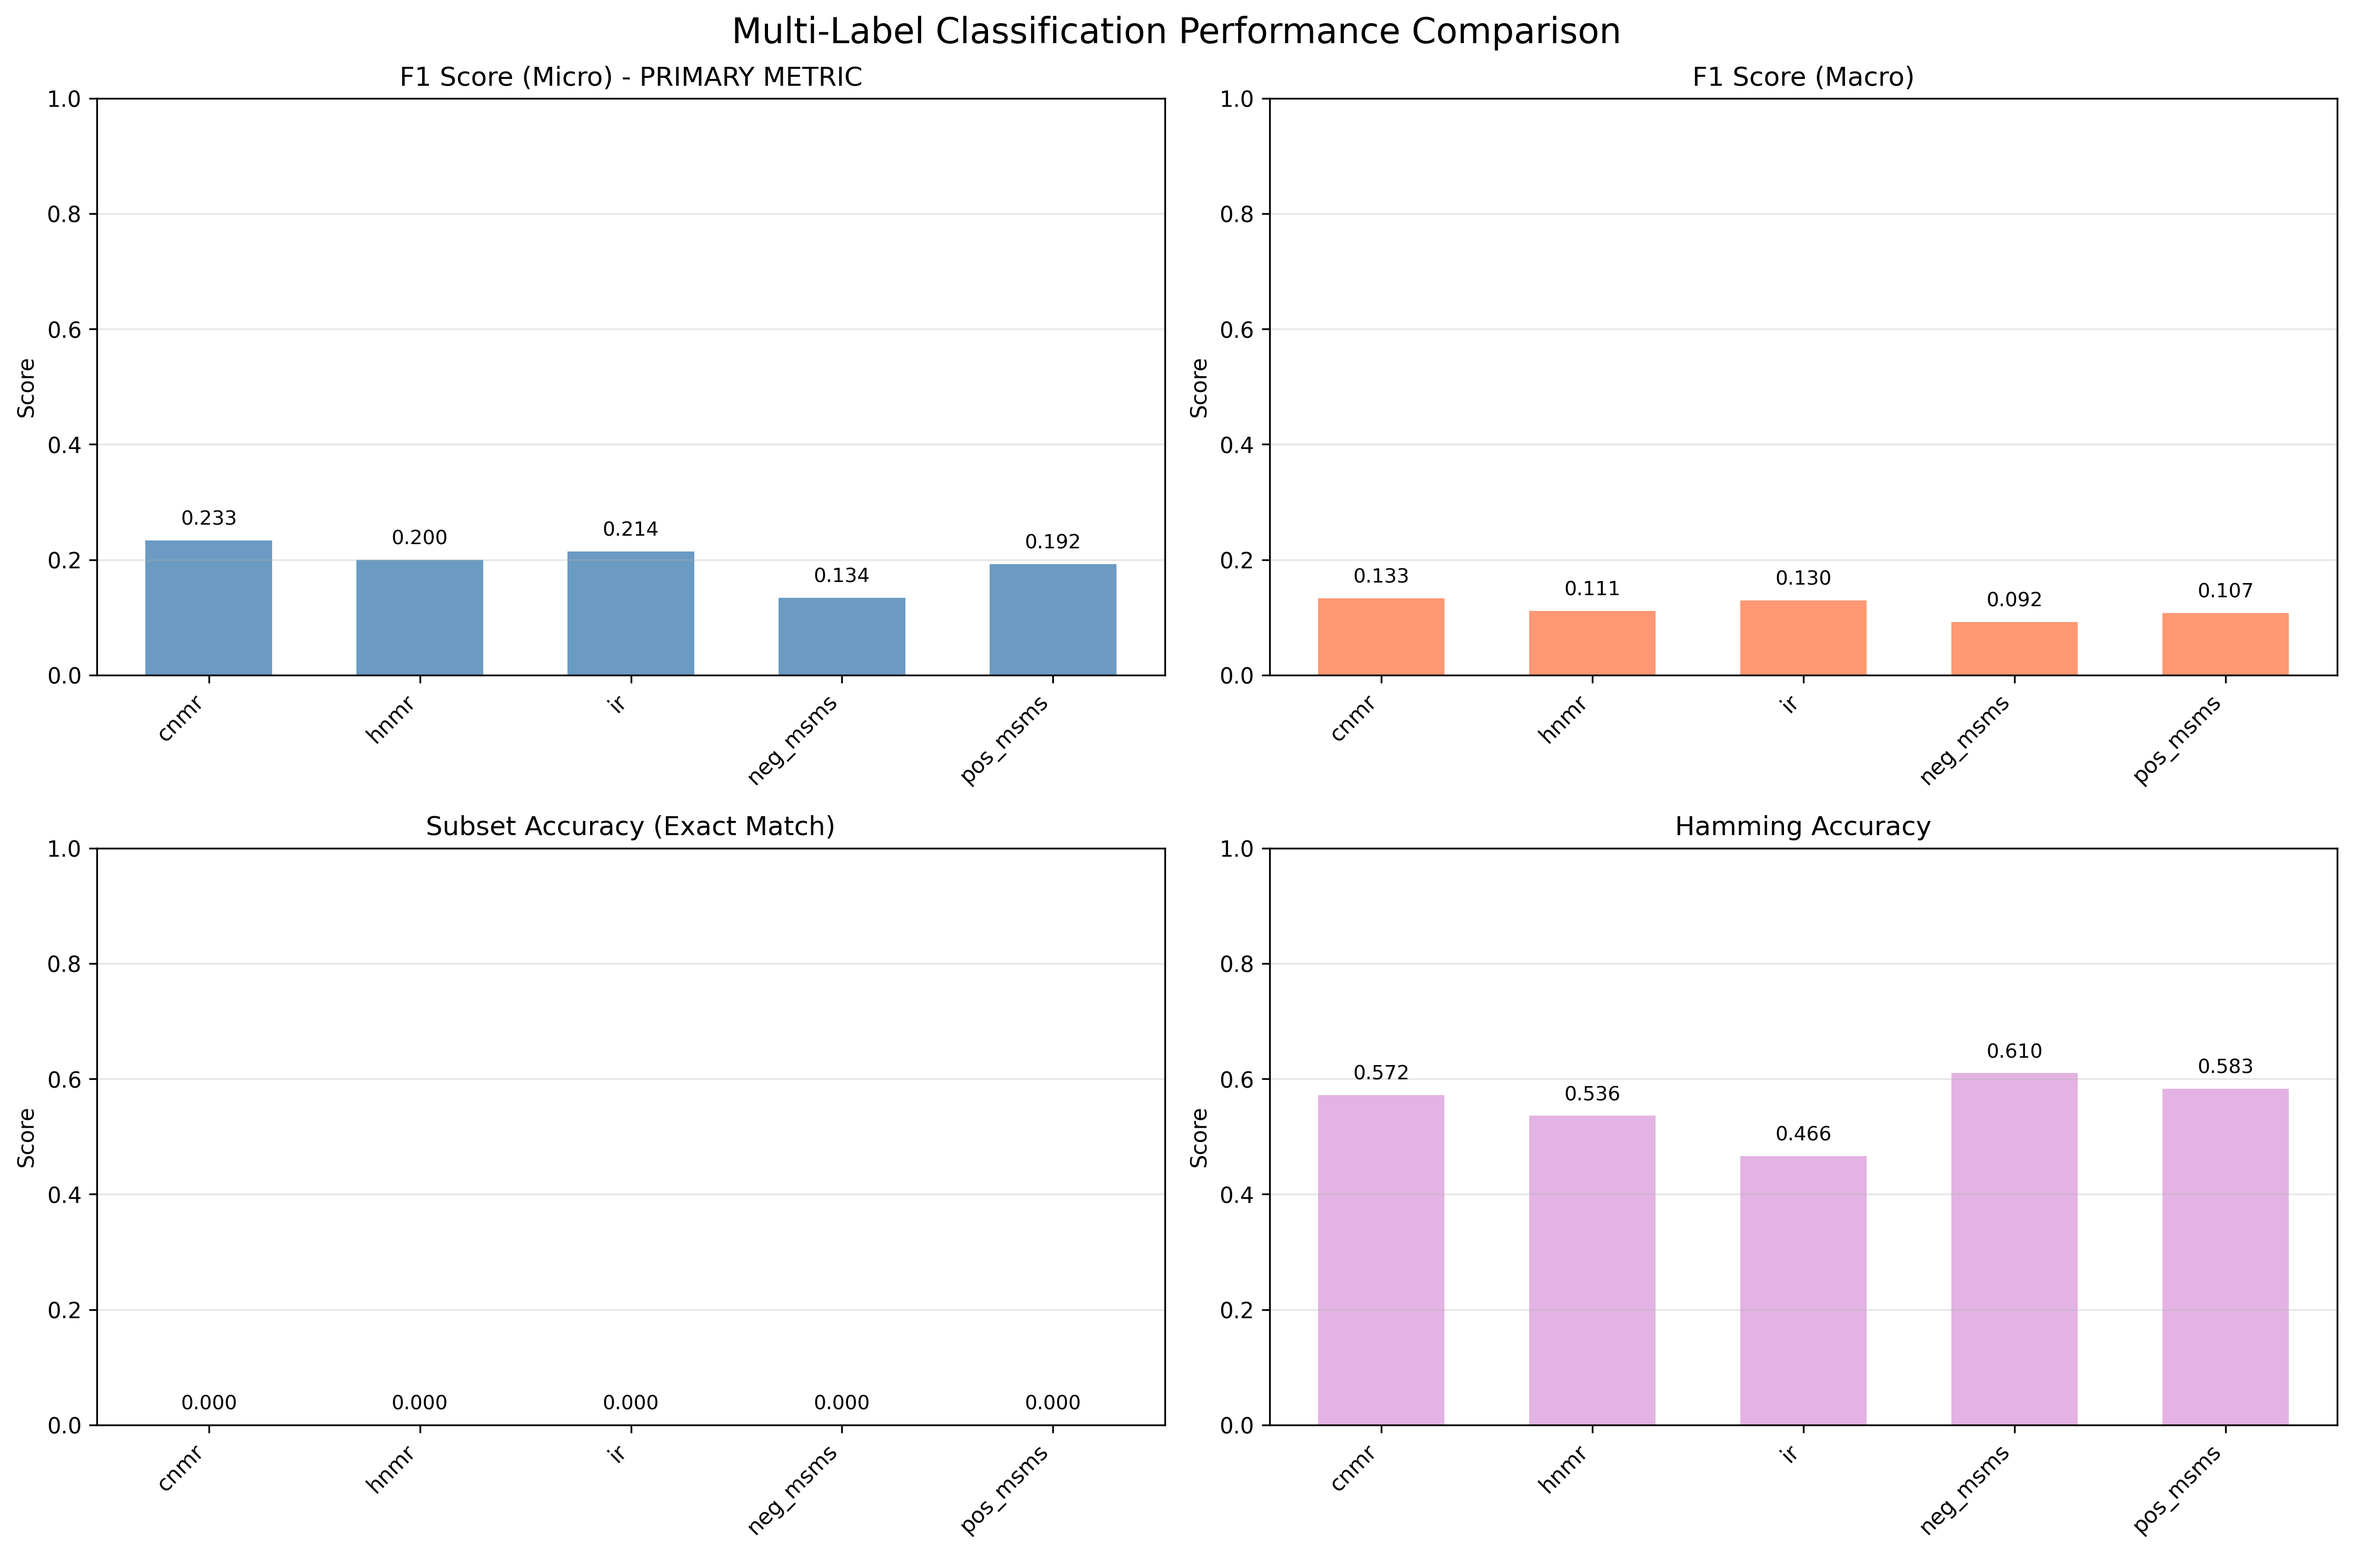
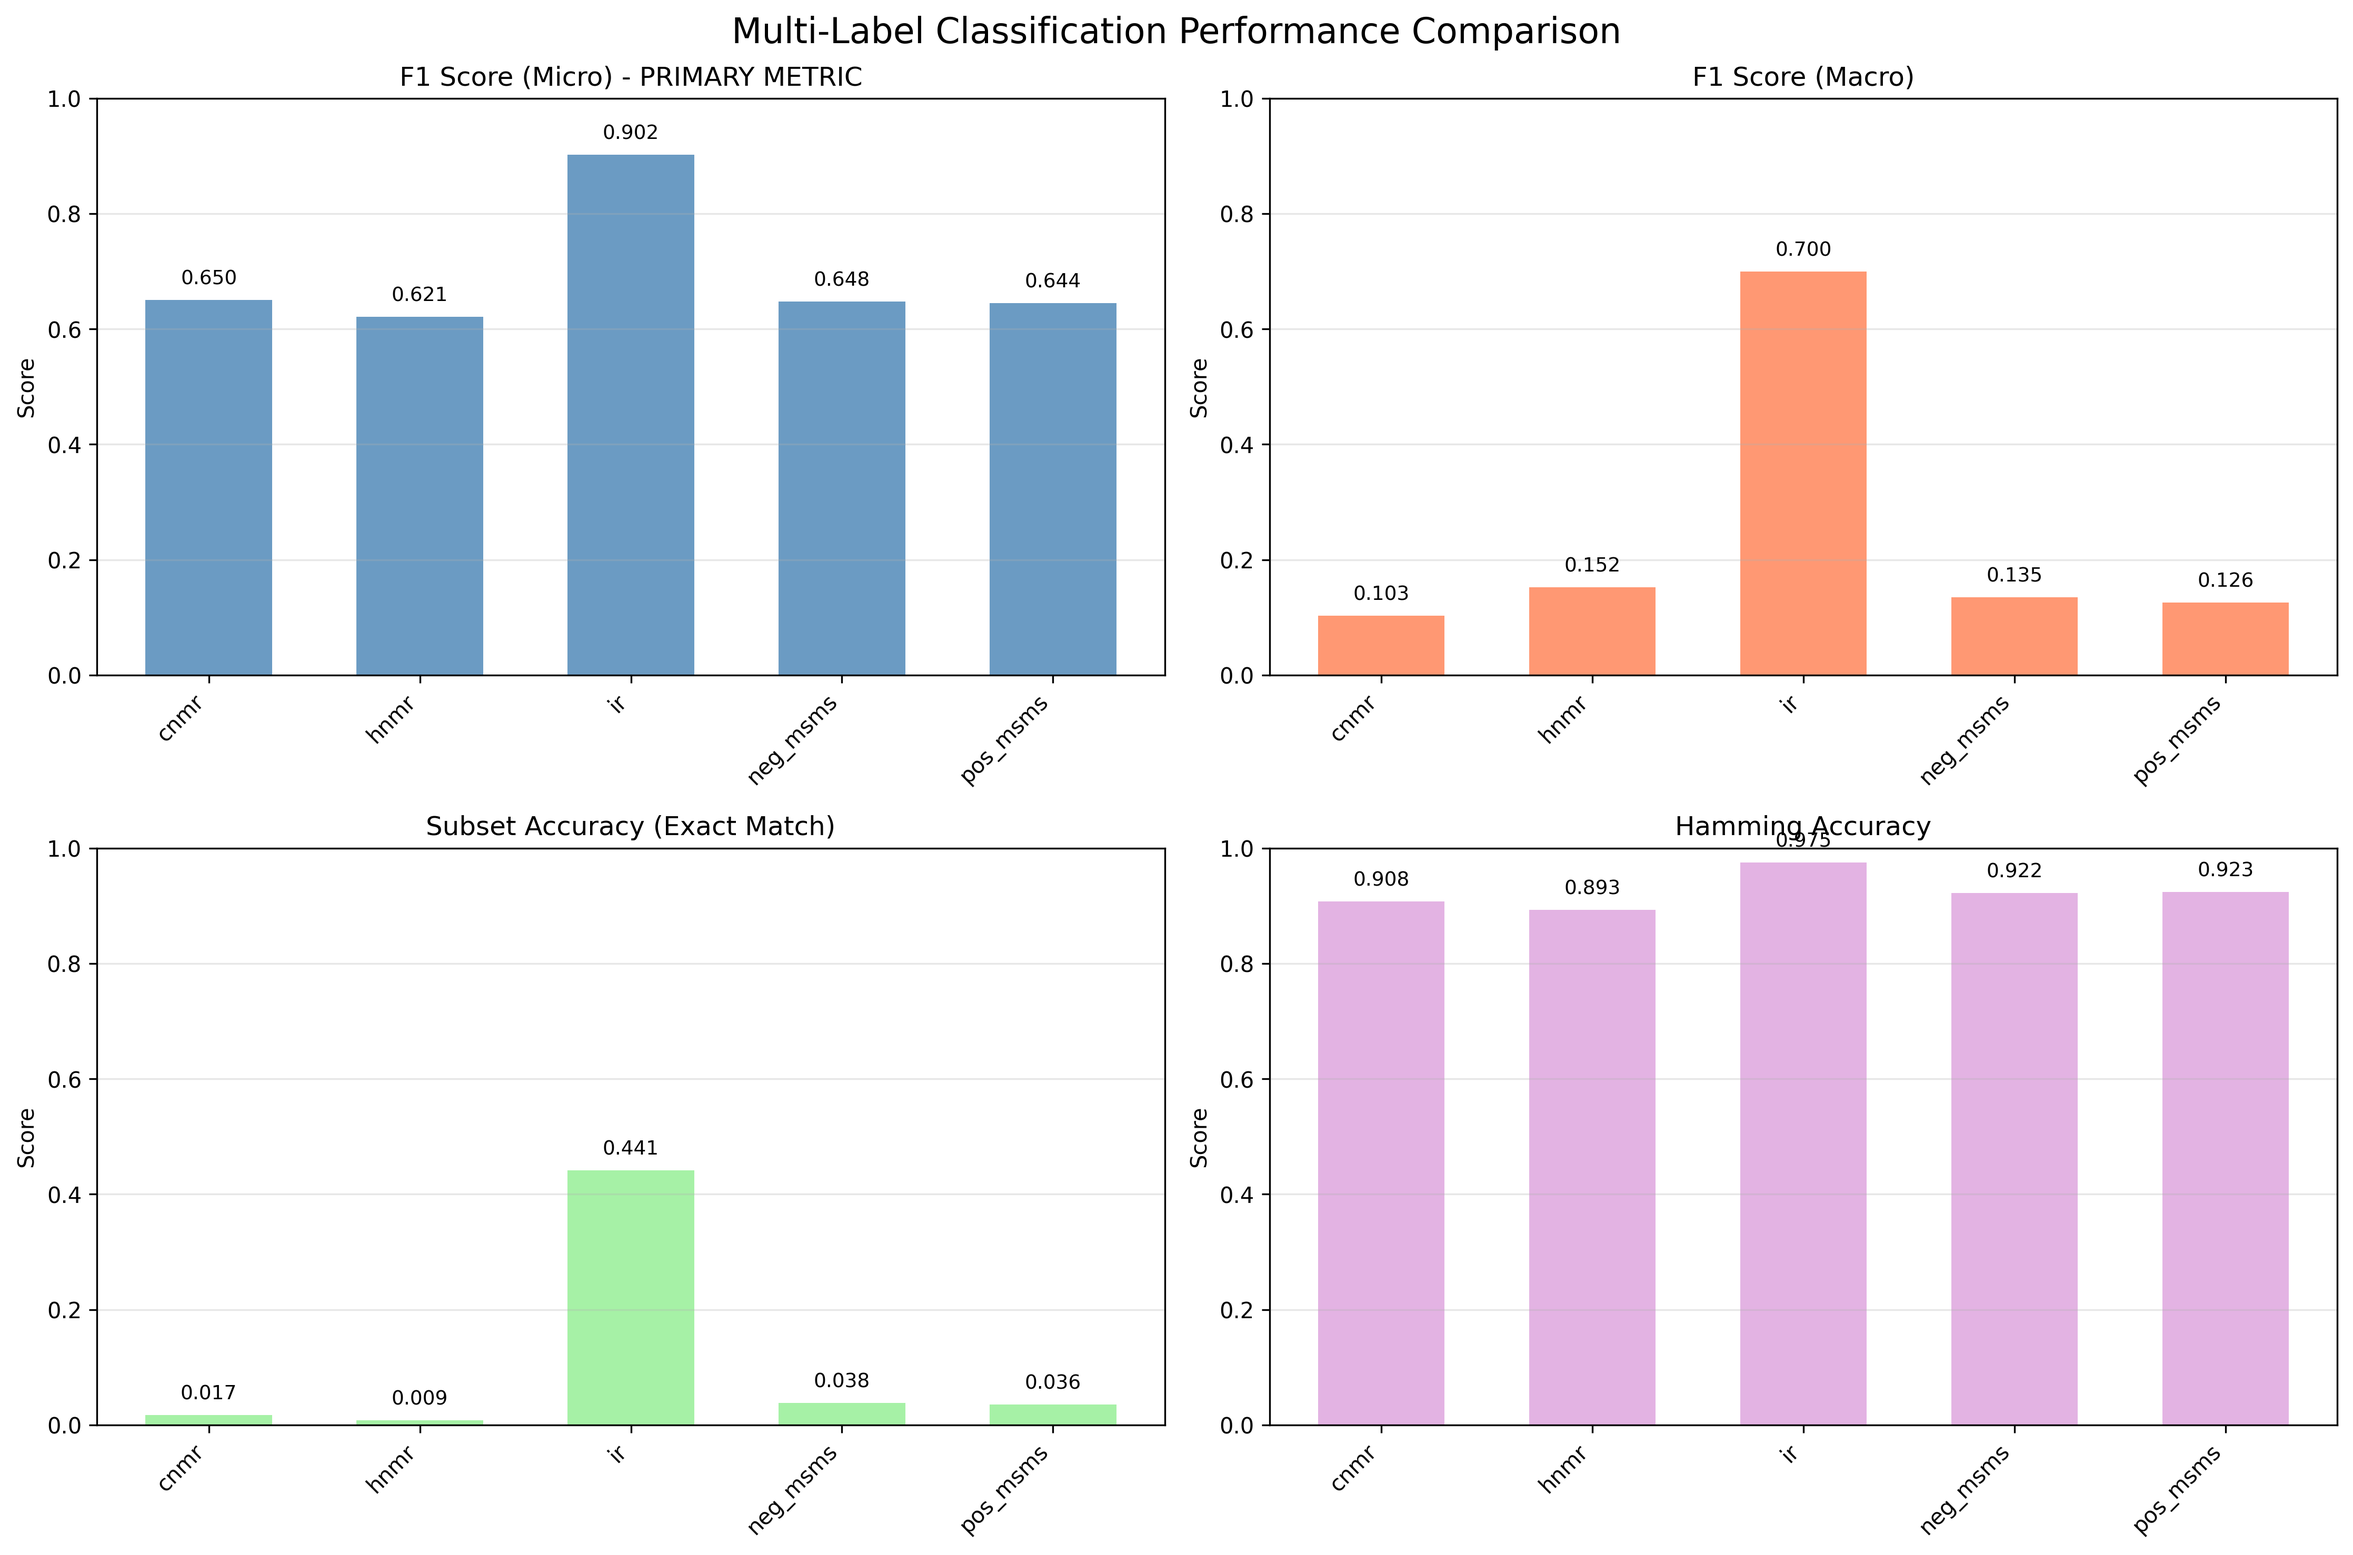
chore: Re run CNN baseline with corrected training

diff --git a/benchmark/cnn/scripts/run_cnn_jung_baseline.py b/benchmark/cnn/scripts/run_cnn_jung_baseline.py
@@ -25,6 +25,23 @@ from sklearn.metrics import f1_score
 from sklearn.model_selection import train_test_split
 import os
 os.environ["TF_XLA_FLAGS"] = "--tf_xla_auto_jit=0"
+os.environ["TF_ENABLE_ONEDNN_OPTS"] = "0"
+import tensorflow as tf
+tf.config.optimizer.set_jit(False)
+
+# GPU Configuration
+gpus = tf.config.list_physical_devices('GPU')
+if gpus:
+    try:
+        # Enable memory growth to prevent TensorFlow from allocating all VRAM at once
+        for gpu in gpus:
+            tf.config.experimental.set_memory_growth(gpu, True)
+        print(f"✓ GPU(s) detected: {len(gpus)} device(s)")
+        print(f"  {[gpu.name for gpu in gpus]}")
+    except RuntimeError as e:
+        print(f"GPU configuration error: {e}")
+else:
+    print("⚠ No GPU detected - running on CPU")
 
 functional_groups = {
     "Acid anhydride": Chem.MolFromSmarts("[CX3](=[OX1])[OX2][CX3](=[OX1])"),
@@ -179,8 +196,8 @@ def train_model(X_train, y_train, X_test, num_fgs, aug, num, weighted):
     model.fit(
         X_train, y_train,
         epochs=42,
-        batch_size=32,
-        verbose=2,
+        batch_size=1024,
+        verbose=1,
         callbacks=[lrs],
     )
 
@@ -211,26 +228,48 @@ def make_msms_spectrum(spectrum):
 
 @click.command()
 @click.option("--analytical_data", type=click.Path(exists=True, path_type=Path), required=False)
-@click.option("--out_path", type=click.Path(exists=True, path_type=Path), required=False)
-@click.option("--column", type=str, required=False)
+@click.option("--base_out_path", type=click.Path(exists=True, path_type=Path), required=False)
+@click.option("--columns", type=str, required=False, help="Comma-separated list of columns to process")
 @click.option("--seed", type=int, default=3245)
-def main(analytical_data, out_path, column, seed):
-    print("Loading Data")
+def main(analytical_data, base_out_path, columns, seed):
+    # Parse columns to process
+    columns_to_process = columns.split(",") if columns else ["h_nmr_spectra", "c_nmr_spectra", "ir_spectra", "pos_msms", "neg_msms"]
+    
+    # Map column names to actual parquet column names and output paths
+    column_mapping = {
+        "h_nmr_spectra": ("h_nmr_spectra", "hnmr"),
+        "c_nmr_spectra": ("c_nmr_spectra", "cnmr"),
+        "ir_spectra": ("ir_spectra", "ir"),
+        "pos_msms": ("msms_positive_40ev", "pos_msms"),
+        "neg_msms": ("msms_negative_40ev", "neg_msms"),
+    }
+    
+    # Get all actual column names needed
+    actual_columns = set(["smiles"])
+    for col in columns_to_process:
+        actual_col, _ = column_mapping[col]
+        actual_columns.add(actual_col)
+    
+    print(f"Loading data for columns: {columns_to_process}")
+    print(f"Reading columns from parquet: {actual_columns}")
     training_data = None
 
-    if column == "pos_msms":
-        column = "msms_positive_40ev"
-    elif column == "neg_msms":
-        column = "msms_negative_40ev"
-
     for i, parquet_file in enumerate(analytical_data.glob("*.parquet")):
-        data = pd.read_parquet(parquet_file, columns=[column, "smiles"])
-
-        if "msms" in column:
-            data[column] = data[column].map(make_msms_spectrum)
-
+        data = pd.read_parquet(parquet_file, columns=list(actual_columns))
+        
+        # Process MSMS columns if present
+        if "msms_positive_40ev" in data.columns:
+            data["msms_positive_40ev"] = data["msms_positive_40ev"].map(make_msms_spectrum)
+        if "msms_negative_40ev" in data.columns:
+            data["msms_negative_40ev"] = data["msms_negative_40ev"].map(make_msms_spectrum)
+        
+        # Compute functional groups once
         data["func_group"] = data.smiles.map(get_functional_groups)
-        data[column] = data[column].map(interpolate_to_600)
+        
+        # Interpolate all spectrum columns
+        for col in actual_columns:
+            if col != "smiles" and col in data.columns:
+                data[col] = data[col].map(interpolate_to_600)
 
         if training_data is None:
             training_data = data
@@ -238,22 +277,38 @@ def main(analytical_data, out_path, column, seed):
             training_data = pd.concat((training_data, data))
         del data
 
-        print("Loaded Data: ", i)
+        print(f"Loaded parquet file {i+1}")
 
+    print(f"Total samples loaded: {len(training_data)}")
+    
+    # Split data once
     train, test = train_test_split(training_data, test_size=0.1, random_state=seed)
+    
+    # Process each column
+    for col_name in columns_to_process:
+        actual_col, output_dir = column_mapping[col_name]
+        print(f"\n{'='*60}")
+        print(f"Training model for: {col_name} (column: {actual_col})")
+        print(f"{'='*60}")
+        
+        X_train = np.stack(train[actual_col].to_list())
+        y_train = np.stack(train["func_group"].to_list())
+        X_test = np.stack(test[actual_col].to_list())
+        y_test = np.stack(test["func_group"].to_list())
 
-    X_train = np.stack(train[column].to_list())
-    y_train = np.stack(train["func_group"].to_list())
-    X_test = np.stack(test[column].to_list())
-    y_test = np.stack(test["func_group"].to_list())
+        # Train model
+        prediction = train_model(X_train, y_train, X_test, 37, "e", 0, 0)
 
-    # Train extended model.
-    prediction = train_model(X_train, y_train, X_test, 37, "e", 0, 0)
+        f1 = f1_score(y_test, prediction, average="micro")
+        print(f"F1 Score for {col_name}: {f1}")
 
-    print(f1_score(y_test, prediction, average="micro"))
-
-    with open(out_path / "results.pickle", "wb") as file:
-        pickle.dump({"pred": prediction, "tgt": y_test}, file)
+        # Save results
+        out_path = base_out_path / output_dir
+        out_path.mkdir(parents=True, exist_ok=True)
+        with open(out_path / "results.pickle", "wb") as file:
+            pickle.dump({"pred": prediction, "tgt": y_test}, file)
+        
+        print(f"Results saved to: {out_path / 'results.pickle'}")
 
 
 if __name__ == "__main__":
